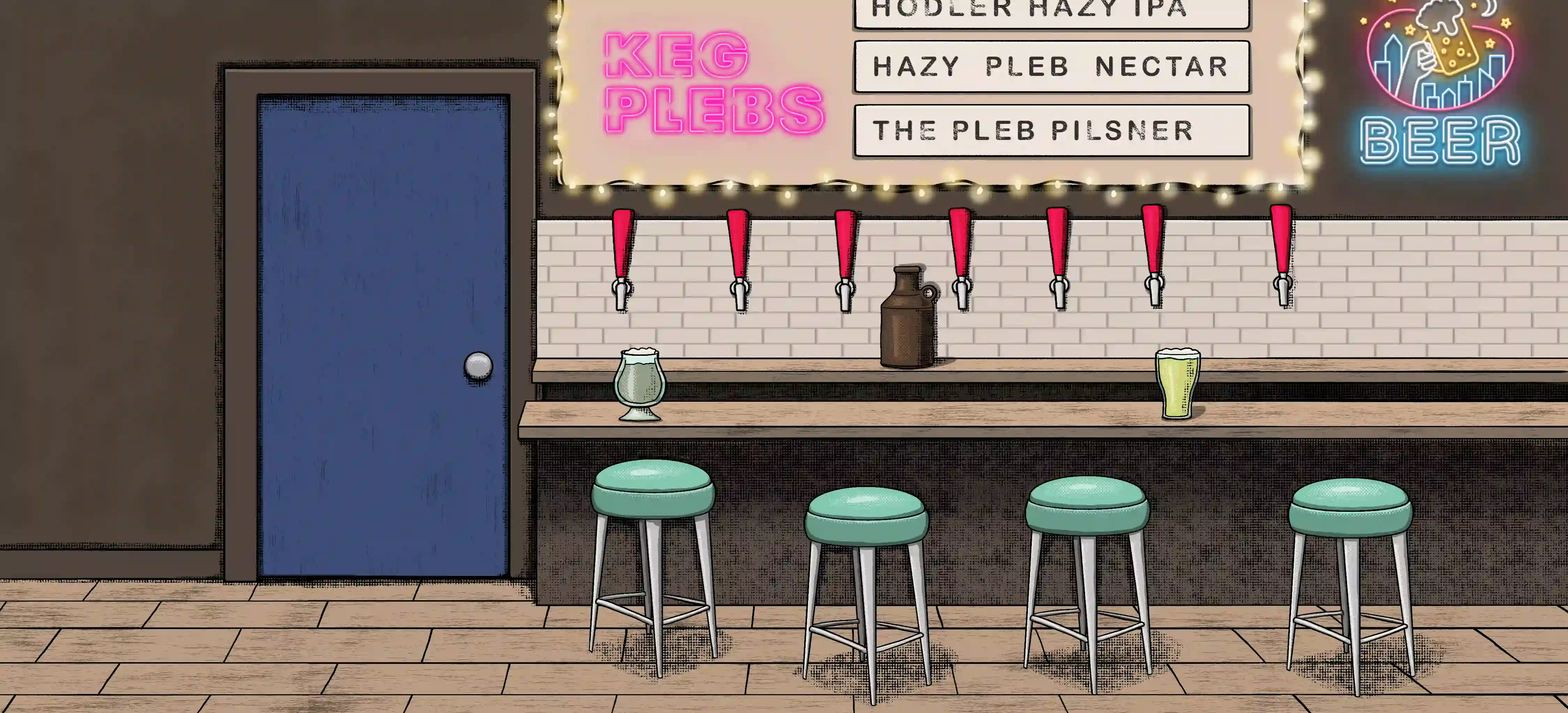
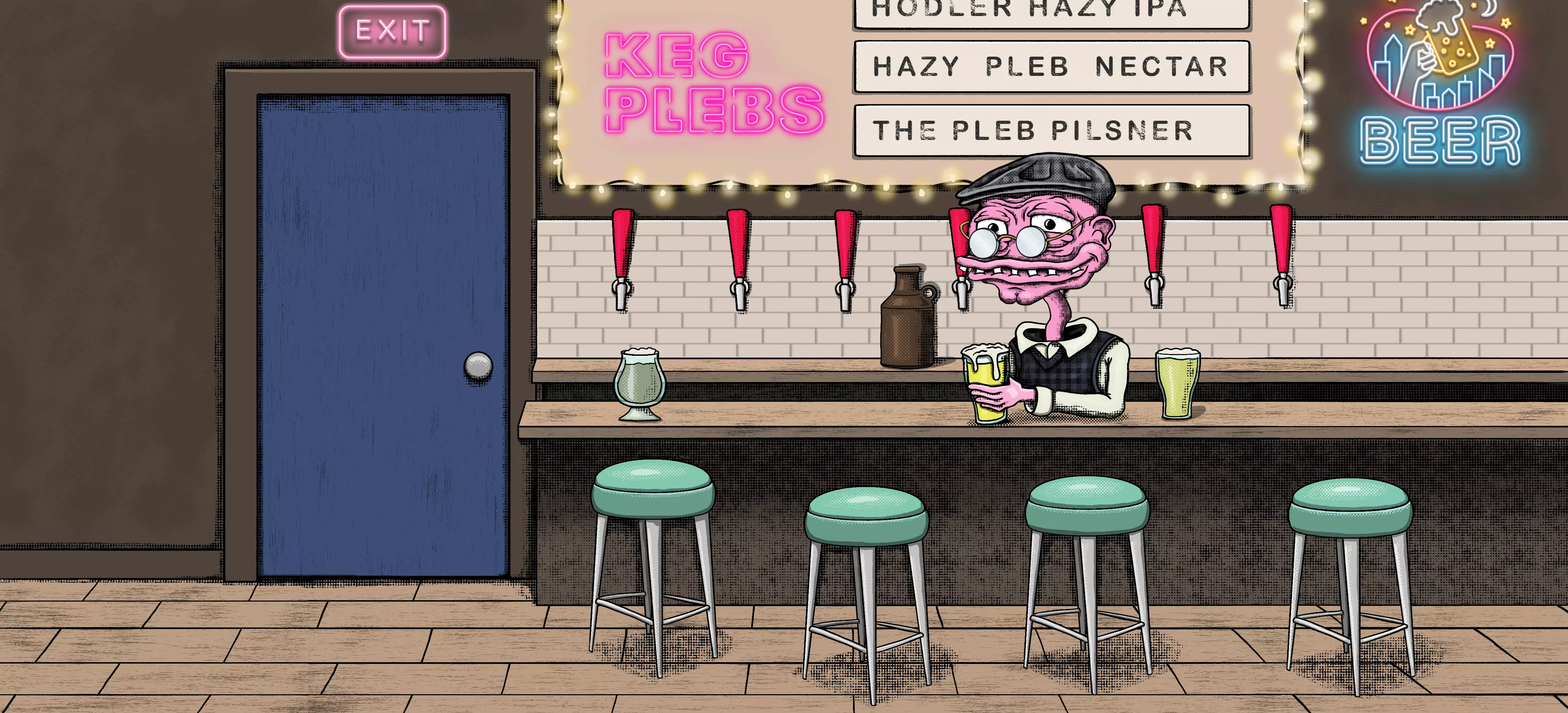
Fixed positioning in the bar scene; merged the images within to make it more responsive

diff --git a/styles/Bar.module.css b/styles/Bar.module.css
@@ -9,6 +9,7 @@
     background-image: url('../public/interior/dooropen_wide.webp');
     background-repeat: no-repeat;
     background-size: cover;
+    background-position: center;
     
 }
 
@@ -22,39 +23,29 @@
     background-image: url('../public/interior/doorclosed_wide.webp');
     background-repeat: no-repeat;
     background-size: cover;
+    background-position: center;
 }
 
 .door {
     background-color: transparent;
     position: absolute;
-    left: 230px;
+    left: 10vw;
     top: 9vh;
-    width: 330px;
-    height: 540px;
+    width: 25vw;
+    height: 67vh;
 
     cursor: pointer;
     z-index: 1;
-}
-
-.bartender {
-    position: absolute;
-    top: 80px;
-    left: 400px;
-    height: 400px;
-    width: 800px;
-    background-image: url('../public/interior/Bartender.webp');
-    background-repeat: no-repeat;
-    background-size: cover;
 }
 
 .bartenderSelect {
     background-color: transparent;
     position: absolute;
 
-    width: 190px;
-    height: 34.5vh;
-    top: 160px;
-    left: 925px;
+    width: 16vw;
+    height: 36vh;
+    top: 19vh;
+    left: 59vw;
     cursor: pointer;
 }
 
@@ -76,20 +67,6 @@
     pointer-events: none;
 }
 
-.exitOption {
-    position: absolute;
-    background-image: url('../public/interior/exit.webp');
-    background-repeat: no-repeat;
-    background-size: cover;
-
-    left: 360px;
-    top: -50px;
-    height: 375px;
-    width: 375px;
-
-    pointer-events: none;
-}
-
 .cheersOption {
     position: absolute;
     background-image: url('../public/interior/cheers.webp');
@@ -102,4 +79,21 @@
     width: 55vw;
     
     pointer-events: none;
+}
+
+@media screen and (max-width: 1500px) {
+    .door {
+        left: 3vw;
+        top: 9vh;
+        width: 25vw;
+        height: 67vh;
+    }
+    
+    .bartenderSelect {
+    
+        width: 25vw;
+        height: 36vh;
+        top: 19vh;
+        left: 59vw;
+    }
 }
